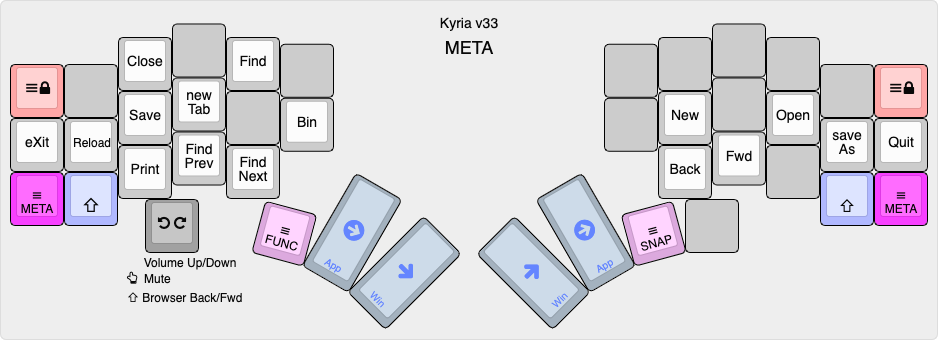
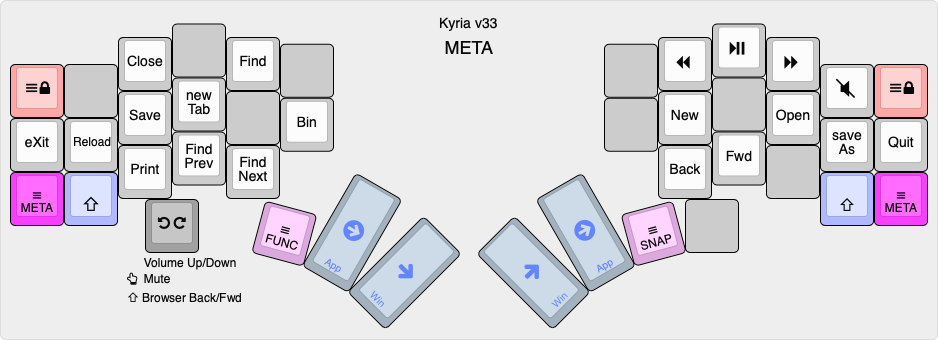
Added media playback keys

diff --git a/kyria-rsthd-prime/keymap.c b/kyria-rsthd-prime/keymap.c
@@ -153,7 +153,7 @@ const uint16_t PROGMEM keymaps[][MATRIX_ROWS][MATRIX_COLS] = {
 /* META
 
  ,-----------------------------------------.                        ,-----------------------------------------.
- | LOCK |      | Close|      | Find |      |                        |      |      |      |      |      | LOCK |
+ | LOCK |      | Close|      | Find |      |                        |      |PrvTrk| Play |NxtTrk| Mute | LOCK |
  |------+------+------+------+------+------|                        |------+------+------+------+------+------|
  | eXit |Reload| Save |newTab|      |  Bin |                        |      |  New |      | Open |saveAs| Quit |
  |------+------+------+------+------+------'                        `------+------+------+------+------+------|
@@ -174,7 +174,7 @@ const uint16_t PROGMEM keymaps[][MATRIX_ROWS][MATRIX_COLS] = {
         _______, _______,   SC_PRINT,     SC_PREV_SEARCH, SC_NEXT_SEARCH,
 
         /* Right hand */
-                 ___X___,  ___X___,         ___X___,        ___X___,  ___X___,    CU_LOCK,
+                 ___X___,  KC_MPRV,         KC_MPLY,        KC_MNXT,  KC_MUTE,    CU_LOCK,
                  ___X___,  SC_NEW,          ___X___,        SC_OPEN,  SC_SAVE_AS, SC_QUIT,
                            SC_BROWSER_BACK, SC_BROWSER_FWD, ___X___,  _______,    _______,
 
